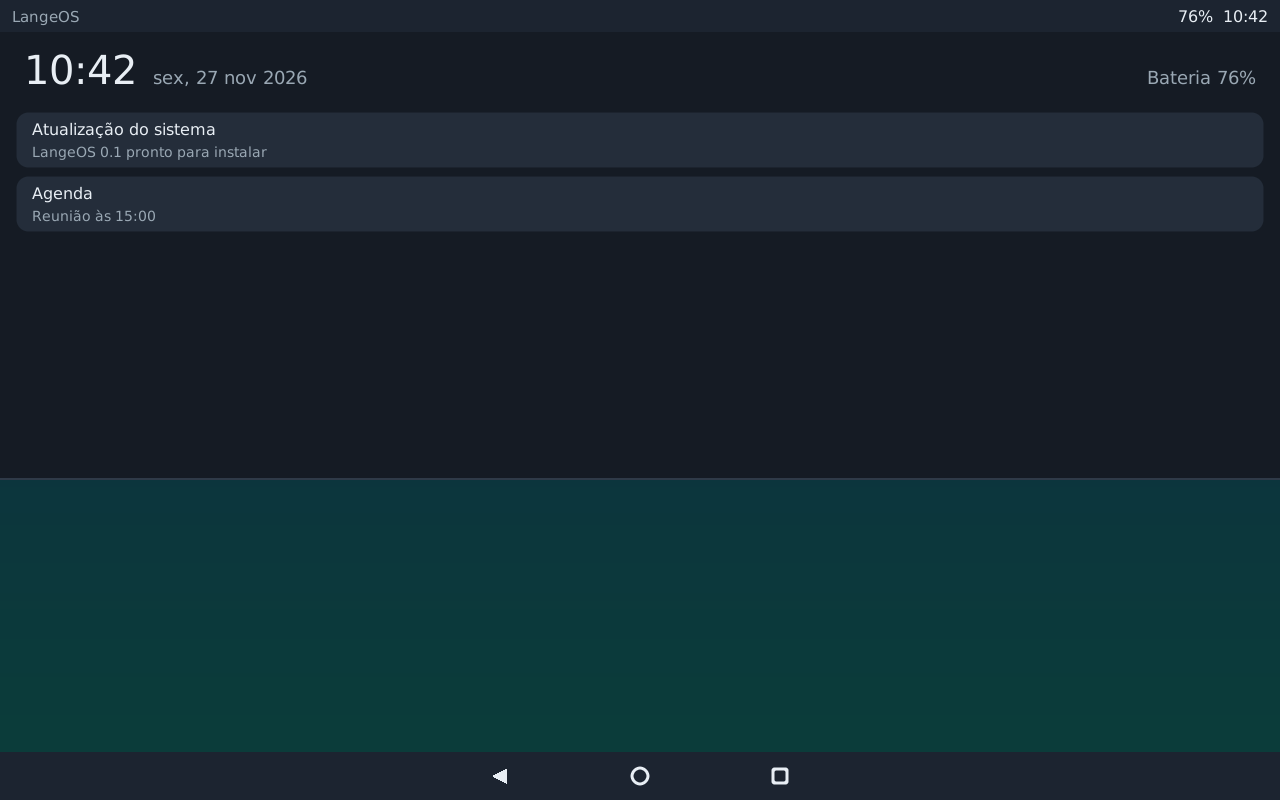
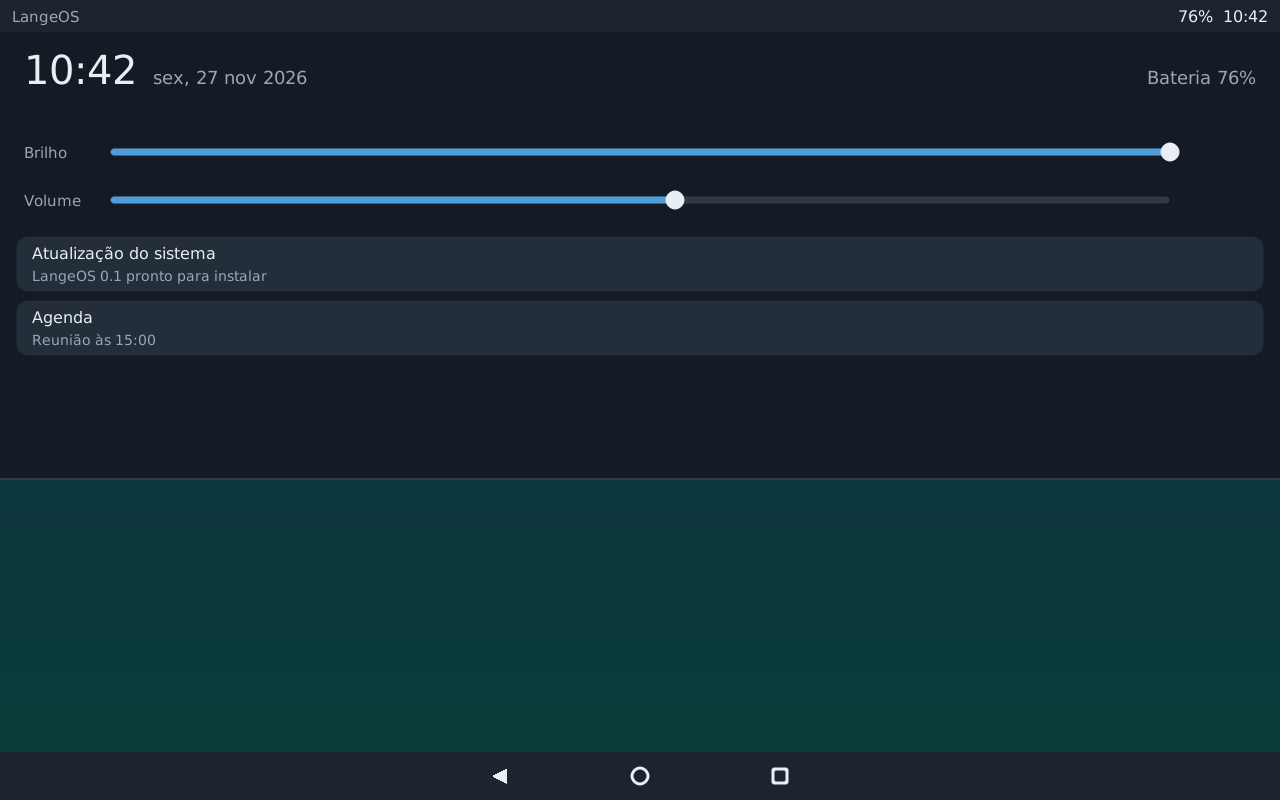
Etapa 7: ajustes rápidos (brilho, volume) e indicador de rede
Painel rápido ganha controles deslizantes: brilho aplicado pelo compositor
(software; backlight no aparelho real) e volume de mídia via
cmd media_session. Barra de status mostra Rede/Sem rede (endereço IPv4 no
net ns do container). Teste QEMU cobre volume e rede.

Claude-Session: https://claude.ai/code/session_01Wa3nsPrGqZVb1U1FKZi3UC

Changed region(s): [[0.0312, 0.1562, 0.9375, 0.2812], [0.0312, 0.3125, 0.2188, 0.4375]]

diff --git a/lange-compositor/src/shell.rs b/lange-compositor/src/shell.rs
@@ -25,7 +25,7 @@ impl AppEntry {
 
 /// O que o compositor deve fazer depois de um toque no shell.
 #[derive(Debug, PartialEq)]
-pub enum Action { None, Redraw, Launch(String), Key(&'static str), Notifs }
+pub enum Action { None, Redraw, Launch(String), Key(&'static str), Notifs, Volume(u8) }
 
 /// Nome curto a partir do pacote: com.android.gallery3d -> "Gallery". ponytail: sem o rótulo real do
 /// APK (precisaria ler resources.arsc); trocar quando o langedroid devolver o label.
@@ -141,6 +141,9 @@ impl Canvas<'_> {
 
 // ---------- shell ----------
 
+/// Início (x) dos controles deslizantes do painel (texto à esquerda).
+const SLIDER_X: i32 = 110;
+
 /// Célula da grade da tela inicial.
 const CELL_W: i32 = 128;
 const CELL_H: i32 = 124;
@@ -154,11 +157,19 @@ pub struct Shell {
     pub panel: bool,
     /// notificações do Android: (título, texto)
     pub notifs: Vec<(String, String)>,
+    /// brilho da tela em % (10..=100); aplicado pelo compositor
+    pub brightness: u8,
+    /// volume de mídia do Android (0..=VOL_MAX)
+    pub volume: u8,
+    /// rede do Android: None = desconhecido, Some(iface vazio) = sem rede
+    pub net: Option<String>,
 }
+
+pub const VOL_MAX: u8 = 15;
 
 impl Shell {
     pub fn new() -> Shell {
-        Shell { mode: Mode::Locked, apps: vec![], recents: vec![], font: Font::new(), down: None, page: 0, panel: false, notifs: vec![] }
+        Shell { mode: Mode::Locked, apps: vec![], recents: vec![], font: Font::new(), down: None, page: 0, panel: false, notifs: vec![], brightness: 100, volume: 8, net: None }
     }
 
     /// Shell recebe o toque (e não a janela Android)?
@@ -215,6 +226,12 @@ impl Shell {
         if self.panel {
             // painel: arrastar p/ cima ou tocar fora fecha
             if (swipe && dy < 0.0) || (!swipe && y as i32 > Self::panel_bottom(h)) { self.panel = false; return Action::Redraw; }
+            // controles deslizantes: toque ou arrasto na linha (vale o x final)
+            if dy.abs() < 40.0 {
+                let f = ((x as i32 - SLIDER_X) as f64 / (w as i32 - 2 * SLIDER_X) as f64).clamp(0.0, 1.0);
+                if Self::slider_row(sy as i32) == Some(0) { self.brightness = (10.0 + f * 90.0).round() as u8; return Action::Redraw; }
+                if Self::slider_row(sy as i32) == Some(1) { self.volume = (f * VOL_MAX as f64).round() as u8; return Action::Volume(self.volume); }
+            }
             return Action::None;
         }
         if sy < BAR as f64 && dy > 60.0 && self.mode != Mode::Locked { self.panel = true; return Action::Notifs; }
@@ -233,7 +250,11 @@ impl Shell {
         self.tap(x as i32, y as i32, w, h)
     }
 
-    fn panel_bottom(h: usize) -> i32 { (h as i32 * 3 / 5).max(BAR as i32 + 200) }
+    fn panel_bottom(h: usize) -> i32 { (h as i32 * 3 / 5).max(BAR as i32 + 300) }
+
+    /// Linhas dos controles no painel: 0 = brilho, 1 = volume (y do centro).
+    fn slider_y(i: i32) -> i32 { BAR as i32 + 120 + i * 48 }
+    fn slider_row(y: i32) -> Option<i32> { (0..2).find(|&i| (y - Self::slider_y(i)).abs() < 22) }
 
     pub fn tap(&mut self, x: i32, y: i32, w: usize, h: usize) -> Action {
         let inside = |(rx, ry, rw, rh): (i32, i32, i32, i32)| x >= rx && y >= ry && x < rx + rw && y < ry + rh;
@@ -344,7 +365,8 @@ impl Shell {
         // barra de status: nome à esquerda, bateria + relógio à direita
         c.rect(0, 0, w as i32, BAR as i32, BG_BAR);
         self.font.draw(c, 12, 22, 15, FG_DIM, "LangeOS");
-        let right = match battery { Some(b) => format!("{b}%  {clock}"), None => clock.to_string() };
+        let net = match self.net.as_deref() { Some("") => "Sem rede  ", Some(_) => "Rede  ", None => "" };
+        let right = match battery { Some(b) => format!("{net}{b}%  {clock}"), None => format!("{net}{clock}") };
         let rw = self.font.width(&right, 16);
         self.font.draw(c, w as i32 - rw - 12, 22, 16, FG, &right);
         // barra de navegação: ◁ ○ □
@@ -376,7 +398,16 @@ impl Shell {
             let tw = self.font.width(&t, 18);
             self.font.draw(c, w - tw - 24, y, 18, FG_DIM, &t);
         }
-        y += 28;
+        for (i, (name, f)) in [("Brilho", (self.brightness - 10) as f64 / 90.0), ("Volume", self.volume as f64 / VOL_MAX as f64)].into_iter().enumerate() {
+            let cy = Self::slider_y(i as i32);
+            self.font.draw(c, 24, cy + 6, 15, FG_DIM, name);
+            let (x0, tw) = (SLIDER_X, w - 2 * SLIDER_X);
+            c.rounded(x0, cy - 4, tw, 8, 4, 0xff2f_3a48);
+            let fx = (tw as f64 * f) as i32;
+            c.rounded(x0, cy - 4, fx.max(8), 8, 4, 0xff4f_9dde);
+            c.rounded(x0 + fx - 10, cy - 10, 20, 20, 10, FG);
+        }
+        y = Self::slider_y(1) + 36;
         if self.notifs.is_empty() {
             self.font.draw(c, 24, y + 24, 17, FG_DIM, "Sem notificações");
         }
@@ -488,6 +519,14 @@ mod tests {
         s.touch_down(600.0, 10.0);
         assert_eq!(s.touch_up(600.0, 300.0, w, h), Action::Notifs);
         assert!(s.panel && s.wants_touch());
+        // controles: volume no fim da linha = máximo; brilho no começo = mínimo
+        let (vy, by) = (Shell::slider_y(1) as f64, Shell::slider_y(0) as f64);
+        s.touch_down(640.0, vy);
+        assert_eq!(s.touch_up(1279.0, vy, w, h), Action::Volume(VOL_MAX));
+        s.touch_down(0.0, by);
+        assert_eq!(s.touch_up(0.0, by, w, h), Action::Redraw);
+        assert_eq!(s.brightness, 10);
+        assert!(s.panel);
         s.touch_down(600.0, 300.0);
         assert_eq!(s.touch_up(600.0, 100.0, w, h), Action::Redraw);
         assert!(!s.panel);

diff --git a/lange-compositor/src/main.rs b/lange-compositor/src/main.rs
@@ -569,6 +569,14 @@ impl App {
             }
         }
         self.shell.draw(&mut Canvas { px: &mut screen.fb, w: fw, h: fh }, &clock_now(), shell::battery());
+        // ponytail: brilho por software (escurece o quadro); /sys/class/backlight no aparelho real
+        let b = self.shell.brightness as u32;
+        if b < 100 {
+            for p in screen.fb.iter_mut() {
+                let ch = |s: u32| ((*p >> s & 0xff) * b / 100) << s;
+                *p = 0xff00_0000 | ch(16) | ch(8) | ch(0);
+            }
+        }
     }
 
     /// Toque: barras e tela inicial/recentes são do shell; o resto vai p/ a janela Android.
@@ -592,6 +600,7 @@ impl App {
                 Action::Launch(c) => { self.requests.push(format!("launch {c}")); self.dirty = true; }
                 Action::Key(k) => { self.requests.push(format!("key {k}")); self.dirty = true; }
                 Action::Notifs => { self.requests.push("notifs".into()); self.dirty = true; }
+                Action::Volume(v) => { self.requests.push(format!("volume {v}")); self.dirty = true; }
             }
         }
     }
@@ -796,6 +805,7 @@ fn main() {
         if !apps_pending && apps_asked.elapsed() >= Duration::from_secs(every) {
             apps_asked = Instant::now();
             apps_pending = req_tx.send("apps".into()).is_ok();
+            let _ = req_tx.send("net".into());
         }
         for r in app.requests.drain(..) { let _ = req_tx.send(r); }
         while let Ok((req, reply)) = resp_rx.try_recv() {
@@ -814,6 +824,9 @@ fn main() {
                     Some(_) => {}
                     None => eprintln!("[compositor] apps: {}", reply.chars().take(120).collect::<String>()),
                 }
+            } else if req == "net" {
+                let net = reply.strip_prefix("ok").map(|i| i.trim().to_string());
+                if net.is_some() && net != app.shell.net { app.shell.net = net; app.dirty = true; }
             } else if req == "notifs" {
                 if !reply.starts_with("ok") { eprintln!("[compositor] notifs: {reply}"); }
                 if let Some(n) = shell::parse_notifs(&reply) { app.shell.notifs = n; app.dirty = true; }

diff --git a/langedroid/src/main.rs b/langedroid/src/main.rs
@@ -283,6 +283,16 @@ fn hold_input_fifos(pid: u32) -> Vec<fs::File> {
     held
 }
 
+/// /proc/net/fib_trie tem endereço local fora de 127.0.0.0/8?
+fn has_ipv4(trie: &str) -> bool {
+    let mut last = "";
+    trie.lines().any(|l| {
+        let l = l.trim();
+        if let Some(ip) = l.strip_prefix("|-- ") { last = ip; }
+        l == "/32 host LOCAL" && !last.starts_with("127.")
+    })
+}
+
 /// Mensagem netlink RTM_NEWLINK: move a interface `ifindex` p/ o net ns do processo `pid`.
 fn netns_move_msg(ifindex: i32, pid: u32) -> Vec<u8> {
     let mut m = Vec::with_capacity(40);
@@ -539,6 +549,12 @@ impl Container {
                 r
             }
             "notifs" => self.android_run("/system/bin/dumpsys", &["notification", "--noredact"]).map(|d| encode_notifs(&parse_notifs(&d))),
+            // ponytail: endereço IPv4 no container = "rede"; validação (internet de fato) via dumpsys se precisar
+            "net" => self.android_init().ok_or("sem init do container".to_string())
+                .and_then(|p| fs::read_to_string(format!("/proc/{p}/net/fib_trie")).map_err(|e| e.to_string()))
+                .map(|t| if has_ipv4(&t) { "on".into() } else { String::new() }),
+            "volume" if arg.parse::<u8>().is_ok_and(|v| v <= 15) =>
+                self.android_cmd(&["media_session", "volume", "--stream", "3", "--set", arg]).map(|_| String::new()),
             "launch" if valid_component(arg) => self.android_cmd(&["activity", "start-activity", "-n", arg]).map(|_| String::new()),
             "key" => match arg {
                 // Voltar na 1ª tela do app leva p/ a launcher do Android: avisa o shell ("home") p/ ele
@@ -754,6 +770,13 @@ fn selftest() -> bool {
 
 #[cfg(test)]
 mod shell_tests {
+    #[test]
+    fn has_ipv4() {
+        let lo = "Main:\n  +-- 127.0.0.0/8 2 0 2\n     |-- 127.0.0.1\n        /32 host LOCAL\n";
+        assert!(!super::has_ipv4(lo));
+        assert!(super::has_ipv4(&format!("{lo}  |-- 10.0.2.15\n     /32 host LOCAL\n")));
+    }
+
     #[test]
     fn netns_msg() {
         let m = super::netns_move_msg(2, 77);

diff --git a/docs/ESTRATEGIA.md b/docs/ESTRATEGIA.md
@@ -33,7 +33,7 @@ Revisão do Blueprint e plano prático. Data: 2026-11-26.
 | 4 | Rootfs EROFS read-only + ZRAM no boot | boot de EROFS, `zram0` ativo | ✅ `/system` EROFS lz4 ro, `/data` ext4, zram = ½ RAM |
 | 5 | Orquestrador LangeDroid (Rust): namespaces + cgroup freezer, sem Android ainda | congela/descongela container de teste, mede RAM | ✅ `langedroid`; ocioso 9.2 MB → 0.3 MB |
 | 6 | Android real no container (imagem Waydroid/LineageOS 20) | app Android abre no QEMU | ✅ boot completo em ~2,5 min; Launcher na tela (QEMU `GPU=virgl`) |
-| 7 | Compositor Smithay + launcher mínima (virtio-gpu) | janela nativa + janela Android na tela | 🔄 `lange-compositor` mostra o Android abaixo da barra de status nativa; sem root; **toque funciona**; **launcher nativa** (grade de apps do Android, recentes, barra de navegação ◁ ○ □, Voltar no app raiz volta à tela inicial), tela de bloqueio (deslizar), páginas, painel rápido com notificações do Android. teclado virtual (LatinIME do Android), **internet** (placa de rede do aparelho vai p/ o container; Android faz DHCP e valida). Falta: ícones reais (vetor/adaptativo), PIN, multitouch, ajustes rápidos (brilho/volume/Wi-Fi), desempenho |
+| 7 | Compositor Smithay + launcher mínima (virtio-gpu) | janela nativa + janela Android na tela | 🔄 `lange-compositor` mostra o Android abaixo da barra de status nativa; sem root; **toque funciona**; **launcher nativa** (grade de apps do Android, recentes, barra de navegação ◁ ○ □, Voltar no app raiz volta à tela inicial), tela de bloqueio (deslizar), páginas, painel rápido com notificações do Android. teclado virtual (LatinIME do Android), **internet** (placa de rede do aparelho vai p/ o container; Android faz DHCP e valida). Painel rápido com brilho (software) e volume do Android; indicador de rede na barra. Falta: ícones reais (vetor/adaptativo), PIN, Wi-Fi real (aparelho), multitouch, desempenho |
 | 7b | Modo janela no emulador (`WINDOW=1`: QEMU `-display gtk,gl=on`, mouse = toque) | usar a interface no PC antes do celular | planejado (após interface + apps) |
 | 8 | Primeiro aparelho físico | boot no hardware | |
 | 9 | Proxy de permissões, firewall eBPF, AVB | — | |
